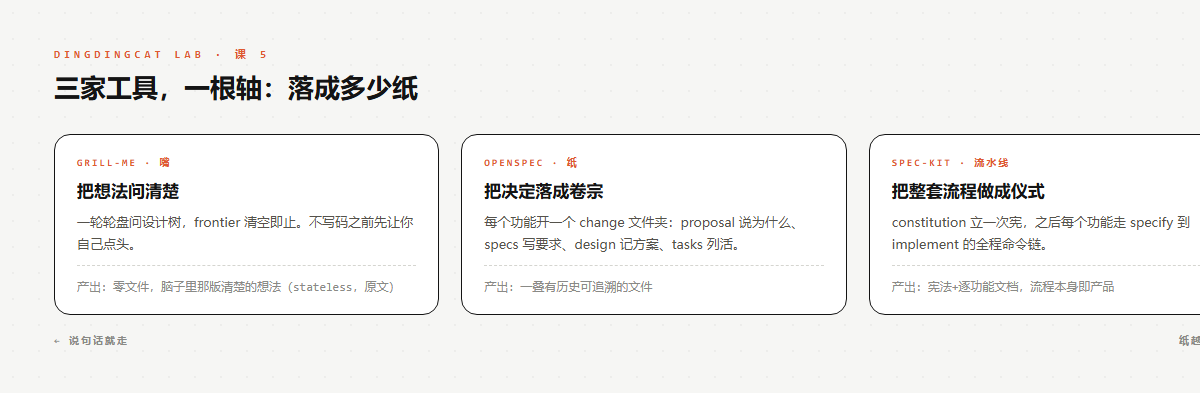
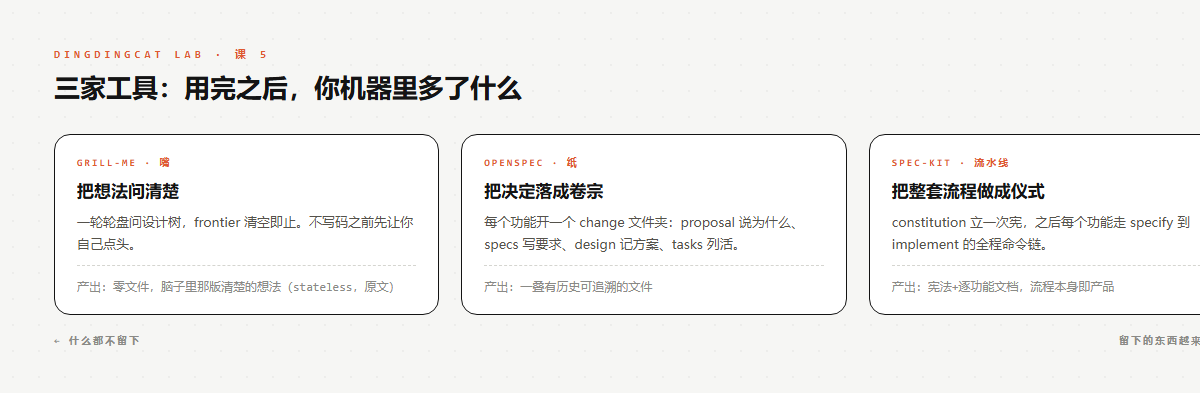
k05 人话化十处（'立约/它真的在/frontier清空/实拍一场'等半黑话全换正常人说法；装没装上、什么时候算问完——用提问句代替术语句）；k04 同族黑话上一步已清；站点同步

Changed region(s): [[0.1542, 0.1832, 0.4317, 0.2748], [0.925, 0.855, 1.0, 0.8855], [0.0308, 0.855, 0.1233, 0.8855]]

diff --git a/a/k05-需求怎么钉住.html b/a/k05-需求怎么钉住.html
@@ -97,38 +97,38 @@ article code{overflow-wrap:anywhere}
 <input type="checkbox" id="navcb">
 <div class="wrap">
 <nav><span class="b"><svg viewBox="0 0 100 100" style="width:26px;height:26px;border-radius:7px"><rect width="100" height="100" rx="22" fill="#e3c24b"/><path d="M18 14 H48 Q82 14 82 50 Q82 86 48 86 H18 Z M40 34 H46 Q62 34 62 50 Q62 66 46 66 H40 Z" fill="#df5a30" fill-rule="evenodd"/><path d="M50 40 Q54 45 54 50 Q54 55 50 60 Q46 55 46 50 Q46 45 50 40 Z" fill="#1d4e89"/></svg>叮叮猫儿<i class="lab">Lab</i></span><span class="links"><a class="nl" href="../index.html">首页</a><a class="nl on" href="../learn.html">课程</a><a class="nl" href="../list.html">文章</a><a class="nl" href="../gallery.html">图文</a><a class="nl" href="../about.html">关于</a></span><label class="burger" for="navcb">&#9776;</label></nav>
-<div class="head"><div class="kicker">上手课</div><h1>第5课｜需求怎么钉住：三家工具一张图，我选最轻的那家</h1><div class="meta">上手课 · 第 5 课 · 2026-11-21</div></div><div class="lessonpage"><div><article><p>这节课结束时你手里有三样东西：装好的 grill-me 插件、跑过的第一轮拷问、以及一张&quot;什么时候用哪家&quot;的判断表。工具部分读完约 15 分钟，动手 10 分钟。先做成，再懂原理——对比和进阶都排在后面，别中途分心。</p>
+<div class="head"><div class="kicker">上手课</div><h1>第5课｜需求怎么钉住：三家工具一张图，我选最轻的那家</h1><div class="meta">上手课 · 第 5 课 · 2026-11-21</div></div><div class="lessonpage"><div><article><p>这节课讲三家帮你想清楚需求的工具。先花 10 分钟把 grill-me 装上、跑一遍，再回头看三家怎么选。先会做，再讲道理。</p>
 <h2>本课目标</h2>
-<ul><li>装上第一个第三方 skill 插件，并用验证命令确认它真的在</li><li>跑通一次 grill-me 拷问，看懂它&quot;按轮出题&quot;的机制</li><li>分清 grill-me / OpenSpec / spec-kit 三家各自的安装、用法和适用面</li></ul>
+<ul><li>装上第一个第三方工具包，并确认装成功了</li><li>跑通一次 grill-me 的提问，知道它是怎么一轮一轮问的</li><li>分清 grill-me / OpenSpec / spec-kit 三家各自的安装、用法和适用面</li></ul>
 <h2>概念卡</h2>
 <ul><li><strong>skill / 插件</strong>：skill 是给 AI 的一页做事规矩（SKILL.md），插件把一批 skill 打包成可整体安装的组件（官方定义：a directory of components）。装插件等于一次装一族本事。</li><li><strong>frontier（前沿）</strong>：grilling 的术语——当前所有&quot;前提已定、马上能问&quot;的问题集合。它决定了这一轮该问什么、什么必须等下一轮。</li></ul>
-<h2>① 立约与选型：为什么先学最轻的</h2>
-<p>把想法钉死有三家，一根轴看差别是<strong>落成多少纸</strong>：</p>
+<h2>① 这节课干什么，为什么先学最轻的一家</h2>
+<p>三家干的是同一件事——开工前把想法定下来。区别只在于：<strong>用完之后，你机器里多了什么</strong>：</p>
 <img src="../assets/课5三家定位图.png" alt="课5三家定位图：嘴（grill-me 零文件）· 纸（OpenSpec change 文件夹）· 流水线（spec-kit 全流程）">
 <div class="imgcap">课5三家定位图：嘴（grill-me 零文件）· 纸（OpenSpec change 文件夹）· 流水线（spec-kit 全流程）</div>
 <p>星数当天气温（一手仓库实测）：grill-me 所在合集 32.9 万、OpenSpec 7.5 万、spec-kit 15.1 万。这门课先教 grill-me，理由两条：<strong>它对新手的全部要求是回答问题</strong>（零新文件结构），而且它是另外两家的前置——proposal 和 specify 都得先有人把想法想清楚。</p>
 <h2>② 装上（Claude Code，一行）</h2>
 <pre><code>claude plugin install mattpocock-skills@claude-plugins-official</code></pre>
-<p><strong>应该看到</strong>：<code>claude plugin list</code> 里出现 <code>mattpocock-skills@claude-plugins-official</code>，<code>Status: ✔ enabled</code>（我本机 11-21 实测，v1.3.1）。</p>
+<p><strong>装没装上，怎么确认</strong>：跑一下 <code>claude plugin list</code>，应该能看到 <code>mattpocock-skills@claude-plugins-official</code> 这一行，后面跟着 <code>Status: ✔ enabled</code>。（我 11-21 实测，当时是 v1.3.1。）</p>
 <p>两条官方提醒别当耳旁风：插件默认自动更新；如果你同时想用 skills.sh 那条路线——<strong>二选一</strong>，两边都装会让每个 skill 出现两遍。</p>
 <h2>③ 第一次成功：跑一轮拷问</h2>
-<p>开一个<strong>新会话</strong>（官方建议：别在已经写满计划的会话里烤），输入：</p>
+<p><strong>新开一个会话</strong>再开始问（官方提醒：别在已经聊了一堆方案的旧会话里问），输入：</p>
 <pre><code>/grill-me 我想给网站加一个教程路径页</code></pre>
-<p><strong>应该看到</strong>：它不是随便问两句，而是按设计树<strong>整轮出题</strong>——一轮里把 frontier（能问的全问完），每题编号、每问附一条推荐答案，提问的措辞让&quot;回答行就等于接受推荐&quot;：</p>
+<p><strong>你会看到</strong>：它不是随口问两句。它把你的想法拆成一棵决策树，每一轮把所有&quot;现在就能问&quot;的问题一起端出来——每题带编号，还带一条它的建议答案；问题故意这么写：你回&quot;行&quot;，就等于采纳了它的建议。</p>
 <img src="../assets/课5轮次frontier图.png" alt="课5轮次frontier图：Round1 三个问题各带推荐答案；Round2 两个新问题；Q6 因依赖未决留到后轮">
 <div class="imgcap">课5轮次frontier图：Round1 三个问题各带推荐答案；Round2 两个新问题；Q6 因依赖未决留到后轮</div>
-<p><strong>什么算完</strong>：frontier 清空——每个分支都问过，没有哪个假设被默默跳过。还有一条原文规矩值得记住：<strong>你没确认达成共识之前，AI 不许动手实现。</strong></p>
-<p>（注：本课第 7 课我实拍了一场烤问，我当时执行的节奏是一题一题弹窗推进——和整轮出题同属这棵树的走法，树逻辑不变。跑熟了你可以选自己喜欢的节奏。）</p>
+<p><strong>什么时候算问完</strong>：该问的都问完了，没有哪个问题是悄悄跳过的。问完之后有一条规矩：<strong>你没说&quot;我们想清楚了&quot;，AI 就不会动手写代码。</strong></p>
+<p>（小说明：第 7 课那场拷问实录里，我是一题一题问的——跟整轮问都属于同一棵决策树的走法，逻辑不变。哪种节奏舒服，你自己选。）</p>
 <h2>④ 何时用它</h2>
 <table><thead><tr><th>用它</th><th>别用它</th></tr></thead><tbody><tr><td>要做新功能，开工前钉目标</td><td>已经能写出精确规格——不用烤，直接干（官方原话）</td></tr><tr><td>商业方向、定价、选题的拍板</td><td>&quot;它该什么感觉&quot;这类问题——问不出来，先用 prototype 做个一次性的看，回来一行就能答（官方称为 ungrillable）</td></tr><tr><td>一篇拿不准角度的文章（不限代码，官方明说）</td><td>别开着 plan mode 烤——它会让 AI 急着交计划，而你要它继续问（原文提醒）</td></tr></tbody></table>
 <p>这族有三兄弟，按场合挑：<strong>grill-me</strong>——任何事任何地，不读写你的仓库；<strong>grill-with-docs</strong>——需要对齐代码库时，它会读码并把学到的沉淀成 GLOSSARY.md 和 ADR（那才是会写文件的）；<strong>wayfinder</strong>——大到一个会话装不下的工程，先画地图，地图里逐个烤。</p>
 <h2>⑤ 进阶与参考</h2>
 <p><strong>最大的失败模式是被动产出</strong>。官方文档点名了一种假高效：四十个问题全答&quot;同意&quot;，出门时手里攥着 AI 写的计划——你什么都没决定，产出却显得比实际确定。正确姿势是掌舵：问题太浅就驳回，方向漂了就喊停，不知道就答&quot;不知道&quot;，且是认真的。结果的质量取决于你答案的质量，不是问题数量。</p>
-<p><strong>想留纸怎么办</strong>：grill-me 本身 stateless——官方原文 &quot;It writes no files and leaves no workspace behind. The only result is a clearer version of the idea, in your own head.&quot;——不落地任何东西，成品是你脑子里那版想清楚的想法。要落纸，这族后头接了 <strong>to-spec</strong>：它不再提问，直接把当前对话合成为 spec 并投递到 issue 跟踪器。先共识、后文档，顺序故意如此。</p>
+<p>想留下书面结果怎么办：grill-me 本身 stateless——官方原文 &quot;It writes no files and leaves no workspace behind. The only result is a clearer version of the idea, in your own head.&quot;——不落地任何东西，成品是你脑子里那版想清楚的想法。要落纸，这族后头接了 <strong>to-spec</strong>：它不再提问，直接把当前对话合成为 spec 并投递到 issue 跟踪器。顺序故意如此：先达成共识，再谈文档。</p>
 <p><strong>三家速查表</strong>（安装/用法全为一手原文）：</p>
-<table><thead><tr><th></th><th>grill-me</th><th>OpenSpec</th><th>spec-kit</th></tr></thead><tbody><tr><td>装</td><td>claude plugin install …（官方插件市场）</td><td>curl 官方脚本 / npm / brew，进项目后 <code>openspec init</code></td><td><code>uv tool install specify-cli</code> → <code>specify init 项目名 --integration 你的agent</code></td></tr><tr><td>用</td><td><code>/grill-me</code> + 一句话想法，按轮烤到 frontier 空</td><td><code>/openspec-explore</code> 想清楚，或 <code>/openspec-propose</code> 直接开 change 文件夹（proposal/specs/design/tasks 四件套）</td><td><code>/speckit-constitution</code> 立宪一次，之后每个功能走 specify 起步的命令链（官方口径）</td></tr><tr><td>留下</td><td>零文件</td><td>一叠可追溯的文件</td><td>宪法 + 逐功能文档</td></tr><tr><td>适合</td><td>想清楚再动</td><td>单人也要留档</td><td>要整套流程仪式</td></tr></tbody></table>
+<table><thead><tr><th></th><th>grill-me</th><th>OpenSpec</th><th>spec-kit</th></tr></thead><tbody><tr><td>装</td><td>claude plugin install …（官方插件市场）</td><td>curl 官方脚本 / npm / brew，进项目后 <code>openspec init</code></td><td><code>uv tool install specify-cli</code> → <code>specify init 项目名 --integration 你的agent</code></td></tr><tr><td>用</td><td><code>/grill-me</code> + 一句话想法，按轮烤到 frontier 空</td><td><code>/openspec-explore</code> 想清楚，或 <code>/openspec-propose</code> 直接开 change 文件夹（proposal/specs/design/tasks 四件套）</td><td><code>/speckit-constitution</code> 立宪一次，之后每个功能走 specify 起步的命令链（官方口径）</td></tr><tr><td>用完留下</td><td>零文件</td><td>一叠可追溯的文件</td><td>项目宪法 + 逐功能文档</td></tr><tr><td>适合</td><td>想清楚再动</td><td>单人也要留档</td><td>要整套流程仪式</td></tr></tbody></table>
 <h2>跟做步骤</h2>
-<ol><li>跑 ② 的安装命令，<code>claude plugin list</code> 看到 enabled 才往下</li><li>新开会话，<code>/grill-me</code> + 一件你真要做的事，答完第一轮再决定继不继续</li><li>对照 ④ 的表，判断你那件事该用哪兄弟（多数情况 grill-me 就够）</li><li>烤完把它的决定清单口述一遍给 AI 让它复述——共识确认，第 7 课开工材料就绪</li><li>想留纸：试试同插件的 to-spec</li></ol>
+<ol><li>跑 ② 的安装命令，<code>claude plugin list</code> 看到 enabled 才往下</li><li>新开会话，<code>/grill-me</code> + 一件你真要做的事，答完第一轮再决定继不继续</li><li>对照 ④ 的表，判断你那件事该用哪兄弟（多数情况 grill-me 就够）</li><li>问完之后，把你听到的那些决定用自己的话说一遍，让 AI 核对有没有理解偏。对了，就算达成共识——第 7 课开工材料就是它</li><li>想留纸：试试同插件的 to-spec</li></ol>
 <h2>及格标准</h2>
 <p><code>claude plugin list</code> 里 enabled 那一行你亲眼见过，并且你回答过至少一轮带推荐答案的编号问题——答&quot;行&quot;时你知道自己点头接受的是什么。</p>
 <h2>卡住了</h2>

diff --git a/articles/k05-需求怎么钉住.md b/articles/k05-需求怎么钉住.md
@@ -8,12 +8,12 @@ date: 2026-11-21
 tags: [vibe coding, 教程]
 ---
 
-这节课结束时你手里有三样东西：装好的 grill-me 插件、跑过的第一轮拷问、以及一张"什么时候用哪家"的判断表。工具部分读完约 15 分钟，动手 10 分钟。先做成，再懂原理——对比和进阶都排在后面，别中途分心。
+这节课讲三家帮你想清楚需求的工具。先花 10 分钟把 grill-me 装上、跑一遍，再回头看三家怎么选。先会做，再讲道理。
 
 ## 本课目标
 
-- 装上第一个第三方 skill 插件，并用验证命令确认它真的在
-- 跑通一次 grill-me 拷问，看懂它"按轮出题"的机制
+- 装上第一个第三方工具包，并确认装成功了
+- 跑通一次 grill-me 的提问，知道它是怎么一轮一轮问的
 - 分清 grill-me / OpenSpec / spec-kit 三家各自的安装、用法和适用面
 
 ## 概念卡
@@ -21,9 +21,9 @@ tags: [vibe coding, 教程]
 - **skill / 插件**：skill 是给 AI 的一页做事规矩（SKILL.md），插件把一批 skill 打包成可整体安装的组件（官方定义：a directory of components）。装插件等于一次装一族本事。
 - **frontier（前沿）**：grilling 的术语——当前所有"前提已定、马上能问"的问题集合。它决定了这一轮该问什么、什么必须等下一轮。
 
-## ① 立约与选型：为什么先学最轻的
+## ① 这节课干什么，为什么先学最轻的一家
 
-把想法钉死有三家，一根轴看差别是**落成多少纸**：
+三家干的是同一件事——开工前把想法定下来。区别只在于：**用完之后，你机器里多了什么**：
 
 ![课5三家定位图：嘴（grill-me 零文件）· 纸（OpenSpec change 文件夹）· 流水线（spec-kit 全流程）](课5三家定位图.png)
 
@@ -35,25 +35,25 @@ tags: [vibe coding, 教程]
 claude plugin install mattpocock-skills@claude-plugins-official
 ```
 
-**应该看到**：`claude plugin list` 里出现 `mattpocock-skills@claude-plugins-official`，`Status: ✔ enabled`（我本机 11-21 实测，v1.3.1）。
+**装没装上，怎么确认**：跑一下 `claude plugin list`，应该能看到 `mattpocock-skills@claude-plugins-official` 这一行，后面跟着 `Status: ✔ enabled`。（我 11-21 实测，当时是 v1.3.1。）
 
 两条官方提醒别当耳旁风：插件默认自动更新；如果你同时想用 skills.sh 那条路线——**二选一**，两边都装会让每个 skill 出现两遍。
 
 ## ③ 第一次成功：跑一轮拷问
 
-开一个**新会话**（官方建议：别在已经写满计划的会话里烤），输入：
+**新开一个会话**再开始问（官方提醒：别在已经聊了一堆方案的旧会话里问），输入：
 
 ```
 /grill-me 我想给网站加一个教程路径页
 ```
 
-**应该看到**：它不是随便问两句，而是按设计树**整轮出题**——一轮里把 frontier（能问的全问完），每题编号、每问附一条推荐答案，提问的措辞让"回答行就等于接受推荐"：
+**你会看到**：它不是随口问两句。它把你的想法拆成一棵决策树，每一轮把所有"现在就能问"的问题一起端出来——每题带编号，还带一条它的建议答案；问题故意这么写：你回"行"，就等于采纳了它的建议。
 
 ![课5轮次frontier图：Round1 三个问题各带推荐答案；Round2 两个新问题；Q6 因依赖未决留到后轮](课5轮次frontier图.png)
 
-**什么算完**：frontier 清空——每个分支都问过，没有哪个假设被默默跳过。还有一条原文规矩值得记住：**你没确认达成共识之前，AI 不许动手实现。**
+**什么时候算问完**：该问的都问完了，没有哪个问题是悄悄跳过的。问完之后有一条规矩：**你没说"我们想清楚了"，AI 就不会动手写代码。**
 
-（注：本课第 7 课我实拍了一场烤问，我当时执行的节奏是一题一题弹窗推进——和整轮出题同属这棵树的走法，树逻辑不变。跑熟了你可以选自己喜欢的节奏。）
+（小说明：第 7 课那场拷问实录里，我是一题一题问的——跟整轮问都属于同一棵决策树的走法，逻辑不变。哪种节奏舒服，你自己选。）
 
 ## ④ 何时用它
 
@@ -69,7 +69,7 @@ claude plugin install mattpocock-skills@claude-plugins-official
 
 **最大的失败模式是被动产出**。官方文档点名了一种假高效：四十个问题全答"同意"，出门时手里攥着 AI 写的计划——你什么都没决定，产出却显得比实际确定。正确姿势是掌舵：问题太浅就驳回，方向漂了就喊停，不知道就答"不知道"，且是认真的。结果的质量取决于你答案的质量，不是问题数量。
 
-**想留纸怎么办**：grill-me 本身 stateless——官方原文 "It writes no files and leaves no workspace behind. The only result is a clearer version of the idea, in your own head."——不落地任何东西，成品是你脑子里那版想清楚的想法。要落纸，这族后头接了 **to-spec**：它不再提问，直接把当前对话合成为 spec 并投递到 issue 跟踪器。先共识、后文档，顺序故意如此。
+想留下书面结果怎么办：grill-me 本身 stateless——官方原文 "It writes no files and leaves no workspace behind. The only result is a clearer version of the idea, in your own head."——不落地任何东西，成品是你脑子里那版想清楚的想法。要落纸，这族后头接了 **to-spec**：它不再提问，直接把当前对话合成为 spec 并投递到 issue 跟踪器。顺序故意如此：先达成共识，再谈文档。
 
 **三家速查表**（安装/用法全为一手原文）：
 
@@ -77,7 +77,7 @@ claude plugin install mattpocock-skills@claude-plugins-official
 |---|---|---|---|
 | 装 | claude plugin install …（官方插件市场） | curl 官方脚本 / npm / brew，进项目后 `openspec init` | `uv tool install specify-cli` → `specify init 项目名 --integration 你的agent` |
 | 用 | `/grill-me` + 一句话想法，按轮烤到 frontier 空 | `/openspec-explore` 想清楚，或 `/openspec-propose` 直接开 change 文件夹（proposal/specs/design/tasks 四件套） | `/speckit-constitution` 立宪一次，之后每个功能走 specify 起步的命令链（官方口径） |
-| 留下 | 零文件 | 一叠可追溯的文件 | 宪法 + 逐功能文档 |
+| 用完留下 | 零文件 | 一叠可追溯的文件 | 项目宪法 + 逐功能文档 |
 | 适合 | 想清楚再动 | 单人也要留档 | 要整套流程仪式 |
 
 ## 跟做步骤
@@ -85,7 +85,7 @@ claude plugin install mattpocock-skills@claude-plugins-official
 1. 跑 ② 的安装命令，`claude plugin list` 看到 enabled 才往下
 2. 新开会话，`/grill-me` + 一件你真要做的事，答完第一轮再决定继不继续
 3. 对照 ④ 的表，判断你那件事该用哪兄弟（多数情况 grill-me 就够）
-4. 烤完把它的决定清单口述一遍给 AI 让它复述——共识确认，第 7 课开工材料就绪
+4. 问完之后，把你听到的那些决定用自己的话说一遍，让 AI 核对有没有理解偏。对了，就算达成共识——第 7 课开工材料就是它
 5. 想留纸：试试同插件的 to-spec
 
 ## 及格标准
